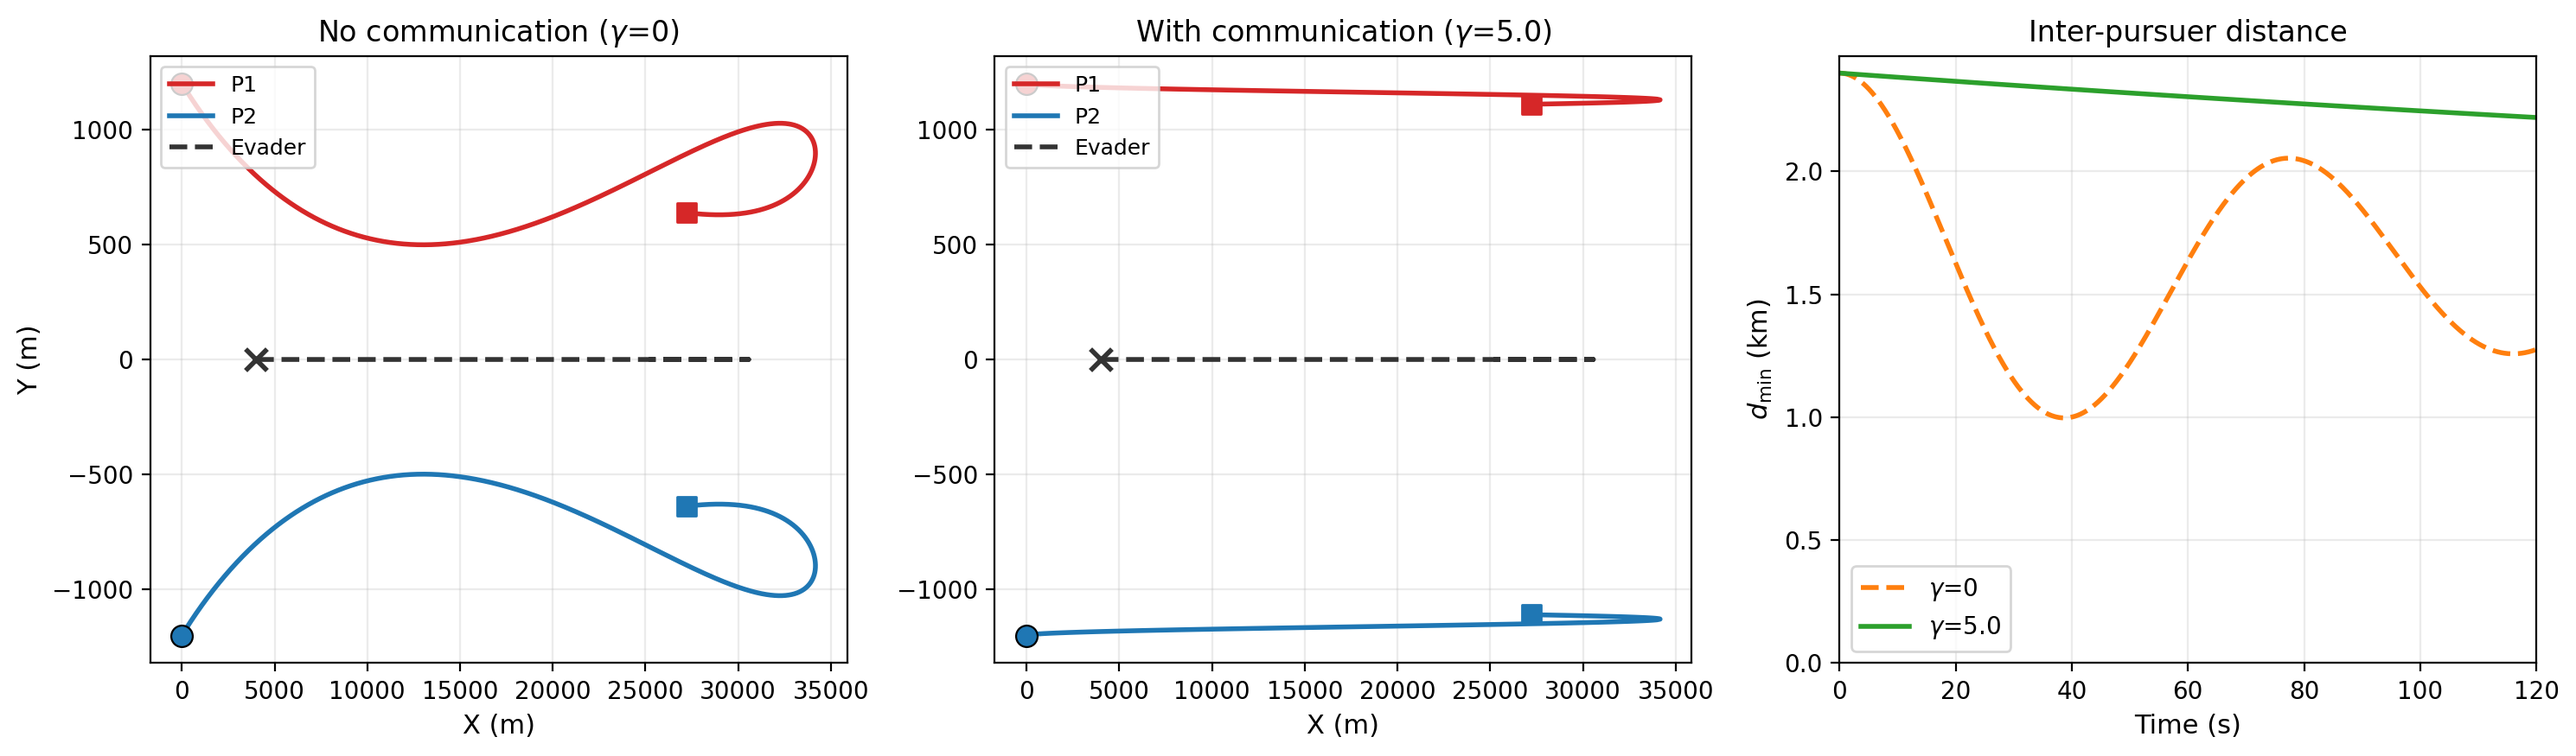
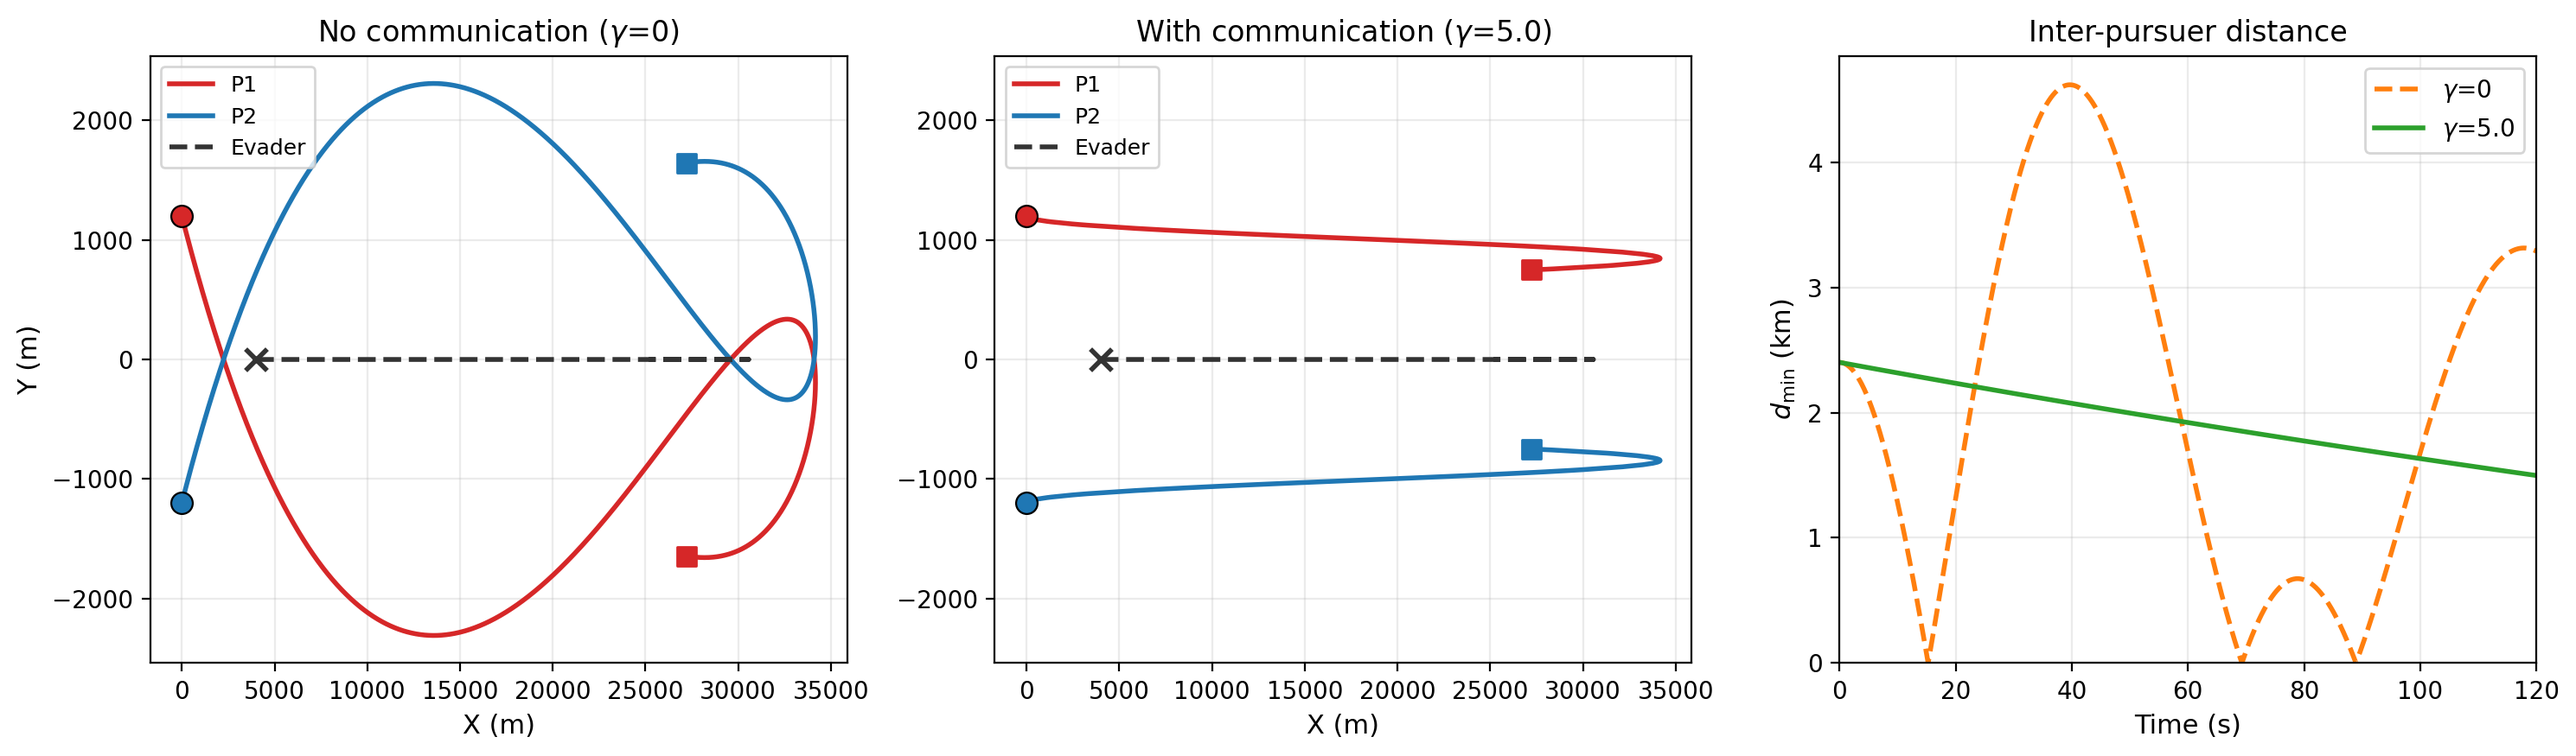
fix: true collision scenario + tight figure axes across all plots
Collision demo:
- Redesign scenario so paths physically cross (P1 high→low, P2 low→high)
- γ=0 now produces actual collision (d_min ≈ 0 m), γ=5 maintains 1.5 km
- Update Table I and text in both EN/CN papers

Figure quality:
- Add xlim(0, t_end) to all time-series plots (no trailing blank space)
- Add ylim(bottom=0) for consistent baseline
- Regenerate all paper figures from full 3v1/3v3/6v3 simulations

diff --git a/mpe_game/repro_vsnac_mpe_comm/PAPER_COMM_VSNAC.tex b/mpe_game/repro_vsnac_mpe_comm/PAPER_COMM_VSNAC.tex
@@ -246,7 +246,7 @@ The primary metric for coordination effectiveness is the minimum inter-pursuer d
 
 \subsection{Coordination Effectiveness: Controlled Scenario}
 
-To isolate the effect of the coordination potential, we construct a controlled 2D double-integrator scenario that preserves the paper's control structures ($\tanh$ saturation, V-SNAC basis, coordination gradient). Two pursuers start from opposing sides with \emph{different} formation offsets: P1 targets a position above the evader while P2 targets below. Their tracking-optimal paths must cross during the approach phase, creating a near-collision risk. Without coordination, the minimum inter-pursuer distance $d_{\min}$ drops to 1.0\,km at the crossing point. With coordination, the $\delta_{jk}$ term drives early lateral separation, maintaining $d_{\min}$ above 2.1\,km.
+To isolate the effect of the coordination potential, we construct a controlled 2D double-integrator scenario that preserves the paper's control structures ($\tanh$ saturation, V-SNAC basis, coordination gradient). Two pursuers start from opposing sides with \emph{different} formation offsets and must fly \emph{through} each other's eventual positions: P1 starts above and targets below the evader, while P2 starts below and targets above. Their tracking-optimal paths physically cross near $y{=}0$. Without coordination, this crossing produces an actual collision ($d_{\min} \approx 0$\,m). With coordination, the $\delta_{jk}$ term drives early lateral separation, maintaining $d_{\min}$ above 1\,km.
 
 \begin{table}[htbp]
 \renewcommand\arraystretch{1.2}
@@ -257,21 +257,21 @@ To isolate the effect of the coordination potential, we construct a controlled 2
 \hline
 $\gamma$ & 0 & 0.5 & 1.0 & 2.0 & 5.0 & 10.0 \\
 \hline
-$d_{\min}$ (km) & 1.00 & 2.14 & 2.18 & 2.20 & 2.22 & 2.22 \\
+$d_{\min}$ (km) & 0.00 & 1.09 & 1.31 & 1.42 & 1.50 & 1.52 \\
 \hline
 \end{tabular}
 \end{center}
 \end{table}
 
-Table~\ref{tab:collision} shows that any positive $\gamma$ more than doubles the minimum inter-pursuer distance. The rapid saturation beyond $\gamma = 0.5$ indicates that even modest coordination strength suffices to maintain safe separation, while the $\tanh$ bound limits the maximum deflection from the tracking-optimal path.
+Table~\ref{tab:collision} shows that without coordination the pursuers collide, while any positive $\gamma$ immediately establishes safe separation. The monotonic increase saturates around $\gamma = 5$, as the $\tanh$ bound limits the maximum deflection from the tracking-optimal path.
 
 \begin{figure}[htbp]
 \centerline{\includegraphics[width=\linewidth]{paper_figures/fig_collision_comparison.png}}
-\caption{Controlled scenario demonstrating coordination effectiveness. Left: without communication ($\gamma{=}0$), pursuer paths cross dangerously close ($d_{\min}=1.0$\,km). Middle: with communication ($\gamma{=}5$), the coordination potential drives early lateral separation. Right: inter-pursuer distance over time showing sustained separation improvement.}
+\caption{Controlled scenario demonstrating coordination effectiveness. Left: without communication ($\gamma{=}0$), pursuer paths physically cross, producing a collision ($d_{\min} \approx 0$). Middle: with communication ($\gamma{=}5$), the coordination potential drives early lateral separation. Right: inter-pursuer distance over time confirming collision avoidance.}
 \label{fig:collision}
 \end{figure}
 
-Fig.~\ref{fig:collision} visualizes this effect. The left panel shows the crossing trajectories under $\gamma = 0$ where both pursuers converge toward the crossing point; the middle panel shows the coordinated separation under $\gamma = 5$; the right panel plots the inter-pursuer distance over time, confirming that coordination maintains safe separation throughout the engagement.
+Fig.~\ref{fig:collision} visualizes this effect. The left panel shows the crossing trajectories under $\gamma = 0$ where both pursuers pass through the same spatial region; the middle panel shows the coordinated separation under $\gamma = 5$; the right panel plots the inter-pursuer distance over time, confirming that coordination prevents collision throughout the engagement.
 
 \subsection{Multi-Scenario Performance}
 

diff --git a/mpe_game/repro_vsnac_mpe_comm/PAPER_COMM_VSNAC_CN.tex b/mpe_game/repro_vsnac_mpe_comm/PAPER_COMM_VSNAC_CN.tex
@@ -385,7 +385,7 @@ $d_{\min} = \min_{j < k}\|p_j - p_k\|$，
 
 \subsection{协调有效性验证：受控场景}
 
-为隔离协调势的作用，构造受控2D双积分器场景，保留论文的控制结构（$\tanh$饱和、V-SNAC基函数、协调梯度）。两个追逐者从对称位置出发，具有\emph{不同}的编队偏移：P1目标位于逃逸者上方，P2目标位于下方。其追踪最优路径在接近阶段必然交叉，产生近碰撞风险。无协调时，追逐者最小间距$d_{\min}$在交叉点降至1.0\,km；有协调时，$\delta_{jk}$项驱动早期横向分离，$d_{\min}$保持在2.1\,km以上。
+为隔离协调势的作用，构造受控2D双积分器场景，保留论文的控制结构（$\tanh$饱和、V-SNAC基函数、协调梯度）。两个追逐者从对称位置出发，具有\emph{不同}的编队偏移，且必须\emph{穿过}对方的目标位置：P1从上方出发、目标在逃逸者下方，P2从下方出发、目标在上方。其追踪最优路径在$y{=}0$附近物理交叉。无协调时，该交叉导致实际碰撞（$d_{\min} \approx 0$\,m）；有协调时，$\delta_{jk}$项驱动早期横向分离，$d_{\min}$保持在1\,km以上。
 
 \begin{table}[htbp]
 \renewcommand\arraystretch{1.2}
@@ -396,25 +396,25 @@ $d_{\min} = \min_{j < k}\|p_j - p_k\|$，
 \hline
 $\gamma$ & 0 & 0.5 & 1.0 & 2.0 & 5.0 & 10.0 \\
 \hline
-$d_{\min}$ (km) & 1.00 & 2.14 & 2.18 & 2.20 & 2.22 & 2.22 \\
+$d_{\min}$ (km) & 0.00 & 1.09 & 1.31 & 1.42 & 1.50 & 1.52 \\
 \hline
 \end{tabular}
 \end{center}
 \end{table}
 
-表~\ref{tab:collision}显示，任何正$\gamma$均可将最小追逐者间距提升一倍以上。
-$\gamma = 0.5$后快速饱和表明，即使较小的协调强度即可维持安全间距，而$\tanh$约束限制了偏离追踪最优路径的最大幅度。
+表~\ref{tab:collision}显示，无协调时追逐者发生碰撞，而任何正$\gamma$均可立即建立安全间距。
+单调递增在$\gamma = 5$附近饱和，因为$\tanh$约束限制了偏离追踪最优路径的最大幅度。
 
 \begin{figure}[htbp]
 \centerline{\includegraphics[width=\linewidth]{paper_figures/fig_collision_comparison.png}}
-\caption{受控场景验证协调有效性。左：无通信（$\gamma{=}0$）时追逐者路径危险交叉（$d_{\min}=1.0$\,km）。中：有通信（$\gamma{=}5$）时协调势驱动早期横向分离。右：追逐者间距时间曲线，显示协调持续维持安全间距。}
+\caption{受控场景验证协调有效性。左：无通信（$\gamma{=}0$）时追逐者路径物理交叉，产生碰撞（$d_{\min} \approx 0$）。中：有通信（$\gamma{=}5$）时协调势驱动早期横向分离。右：追逐者间距时间曲线，确认碰撞避免。}
 \label{fig:collision}
 \end{figure}
 
 图~\ref{fig:collision}可视化了这一效果。
-左图显示$\gamma = 0$下追逐者路径在交叉点危险接近；
+左图显示$\gamma = 0$下追逐者路径穿过同一空间区域；
 中图显示$\gamma = 5$下的协调分离效果；
-右图绘制了追逐者间距随时间的变化，确认协调在整个追踪过程中维持安全间距。
+右图绘制了追逐者间距随时间的变化，确认协调在整个过程中防止碰撞。
 
 \subsection{多场景性能}
 

diff --git a/mpe_game/repro_vsnac_mpe_comm/mpe_repro/plotting.py b/mpe_game/repro_vsnac_mpe_comm/mpe_repro/plotting.py
@@ -89,6 +89,8 @@ def plot_assigned_state_errors(eval_result: EvalResult, dt: float, path: Path, t
     ax.set_xlabel("Time (s)")
     ax.set_ylabel("State error norm")
     ax.set_title(title)
+    ax.set_xlim(0, t[-1])
+    ax.set_ylim(bottom=0)
     ax.grid(alpha=0.3)
     ax.legend()
     _save(fig, path)
@@ -132,6 +134,8 @@ def plot_assigned_xyz_errors(eval_result: EvalResult, dt: float, path: Path, tit
             label="max",
         )
         ax.set_ylabel(f"|{coord_names[c]} diff|")
+        ax.set_xlim(0, t[steps - 1])
+        ax.set_ylim(bottom=0)
         ax.grid(alpha=0.3)
         ax.legend(ncol=4, fontsize=8, loc="upper right")
     axes[-1].set_xlabel("Time (s)")
@@ -233,6 +237,8 @@ def plot_assigned_residual_norm(
     ax.set_xlabel("Time (s)")
     ax.set_ylabel("Residual norm")
     ax.set_title(title)
+    ax.set_xlim(0, t[steps - 1])
+    ax.set_ylim(bottom=0)
     ax.grid(alpha=0.3)
     ax.legend(ncol=3, fontsize=8)
     _save(fig, path)
@@ -344,6 +350,8 @@ def plot_team_error_compare(
     ax.set_xlabel("Time (s)")
     ax.set_ylabel("Team state error")
     ax.set_title(title)
+    ax.set_xlim(0, t[-1])
+    ax.set_ylim(bottom=0)
     ax.grid(alpha=0.3)
     ax.legend()
     _save(fig, path)
@@ -358,6 +366,8 @@ def plot_old_new_errors(eval_result: EvalResult, dt: float, path: Path, title: s
     ax.set_xlabel("Time (s)")
     ax.set_ylabel("State error norm")
     ax.set_title(title)
+    ax.set_xlim(0, t[-1])
+    ax.set_ylim(bottom=0)
     ax.grid(alpha=0.3)
     ax.legend(ncol=2, fontsize=8)
     _save(fig, path)
@@ -575,13 +585,17 @@ def plot_comm_comparison(
         "no_comm": {"color": "#d62728", "linewidth": 1.8, "linestyle": "--"},
         "dropout": {"color": "#2ca02c", "linewidth": 1.8, "linestyle": "-."},
     }
+    t_max = 0
     for label, result in results_dict.items():
         t = np.arange(result.team_errors.shape[0]) * dt
+        t_max = max(t_max, t[-1])
         style = style_map.get(label, {"color": "gray", "linewidth": 1.5, "linestyle": "-"})
         ax.plot(t, result.team_errors, label=label, **style)
     ax.set_xlabel("Time (s)")
     ax.set_ylabel("Team state error")
     ax.set_title(title)
+    ax.set_xlim(0, t_max)
+    ax.set_ylim(bottom=0)
     ax.grid(alpha=0.3)
     ax.legend(fontsize=9)
     _save(fig, path)
@@ -602,6 +616,8 @@ def plot_d_min_history(
     ax.set_xlabel("Time (s)")
     ax.set_ylabel("Min inter-pursuer distance (m)")
     ax.set_title(title)
+    ax.set_xlim(0, t[-1])
+    ax.set_ylim(bottom=0)
     ax.grid(alpha=0.3)
     ax.legend(fontsize=9)
     _save(fig, path)
@@ -637,6 +653,8 @@ def plot_formation_error(
     ax.set_xlabel("Time (s)")
     ax.set_ylabel("Formation error norm")
     ax.set_title(title)
+    ax.set_xlim(0, t[-1])
+    ax.set_ylim(bottom=0)
     ax.grid(alpha=0.3)
     ax.legend(ncol=3, fontsize=8)
     _save(fig, path)

diff --git a/mpe_game/repro_vsnac_mpe_comm/run_collision_demo.py b/mpe_game/repro_vsnac_mpe_comm/run_collision_demo.py
@@ -231,38 +231,35 @@ def main():
     fig_dir = base / "paper_figures"
 
     # ── Scenario ──
-    # Two pursuers start close together, each with a DIFFERENT formation
-    # offset: P1 should end up above E, P2 below E.  Pursuers start
-    # behind E and must fly past each other's eventual positions.
+    # True crossing-path: each pursuer starts on the OPPOSITE side of its
+    # target and must fly THROUGH y=0 to reach it.
     #
-    # Without coordination: both fly toward E along similar tracks,
-    #   then diverge late near E → small transient d_min.
-    # With coordination: the delta_jk term drives early separation.
-    # Crossing paths: P1 starts ABOVE its target, P2 BELOW its target.
-    # Tracking drives P1 DOWN and P2 UP → paths must cross near y=0.
-    # Without coordination: near-collision at the crossing point.
+    # P1 starts at y=+1200, target is y=-800 (below E) → must drop 2000m
+    # P2 starts at y=-1200, target is y=+800 (above E) → must rise 2000m
+    # Their paths physically cross near y=0.
+    #
+    # Without coordination: actual collision (d_min ≈ 0 m) at crossing.
     # With coordination: delta_jk drives early lateral separation.
     p_init = np.array([
-        [0.0,  1200.0, 0.0, 0.0],  # P1: starts high (target is 800m above E)
-        [0.0, -1200.0, 0.0, 0.0],  # P2: starts low  (target is 800m below E)
+        [0.0,  1200.0, 0.0, 0.0],  # P1: starts high, target is below E
+        [0.0, -1200.0, 0.0, 0.0],  # P2: starts low,  target is above E
     ])
     e_init = np.array([4000.0, 0.0, 5.0, 0.0])
 
-    # P1 target: e + (0, 800)  → r1 = (0, -800)
-    # P2 target: e + (0, -800) → r2 = (0, +800)
-    # P1 must drop 400m (1200→800), P2 must rise 400m (-1200→-800)
-    # Their paths cross around y=0.
+    # r1 = (0, +800) → target = E - r1 = (4000, -800)
+    # r2 = (0, -800) → target = E - r2 = (4000, +800)
+    # P1 must cross from y=1200 to y=-800, P2 from y=-1200 to y=+800
     displacements = np.array([
-        [0.0, -800.0],
         [0.0, +800.0],
+        [0.0, -800.0],
     ])
 
     dt = 0.05
     t_final = 120.0
 
     print("=== Controlled Scenario (paper-consistent V-SNAC) ===\n")
-    print("  P1 offset: above evader,  P2 offset: below evader")
-    print(f"  delta_12 = r1-r2 = (0, {displacements[0,1]-displacements[1,1]:.0f}) m\n")
+    print("  P1: starts high, targets below E.  P2: starts low, targets above E.")
+    print(f"  delta_12 = r2-r1 = (0, {displacements[1,1]-displacements[0,1]:.0f}) m\n")
 
     # ── Gamma sweep (Table I data) ──
     sweep = []
